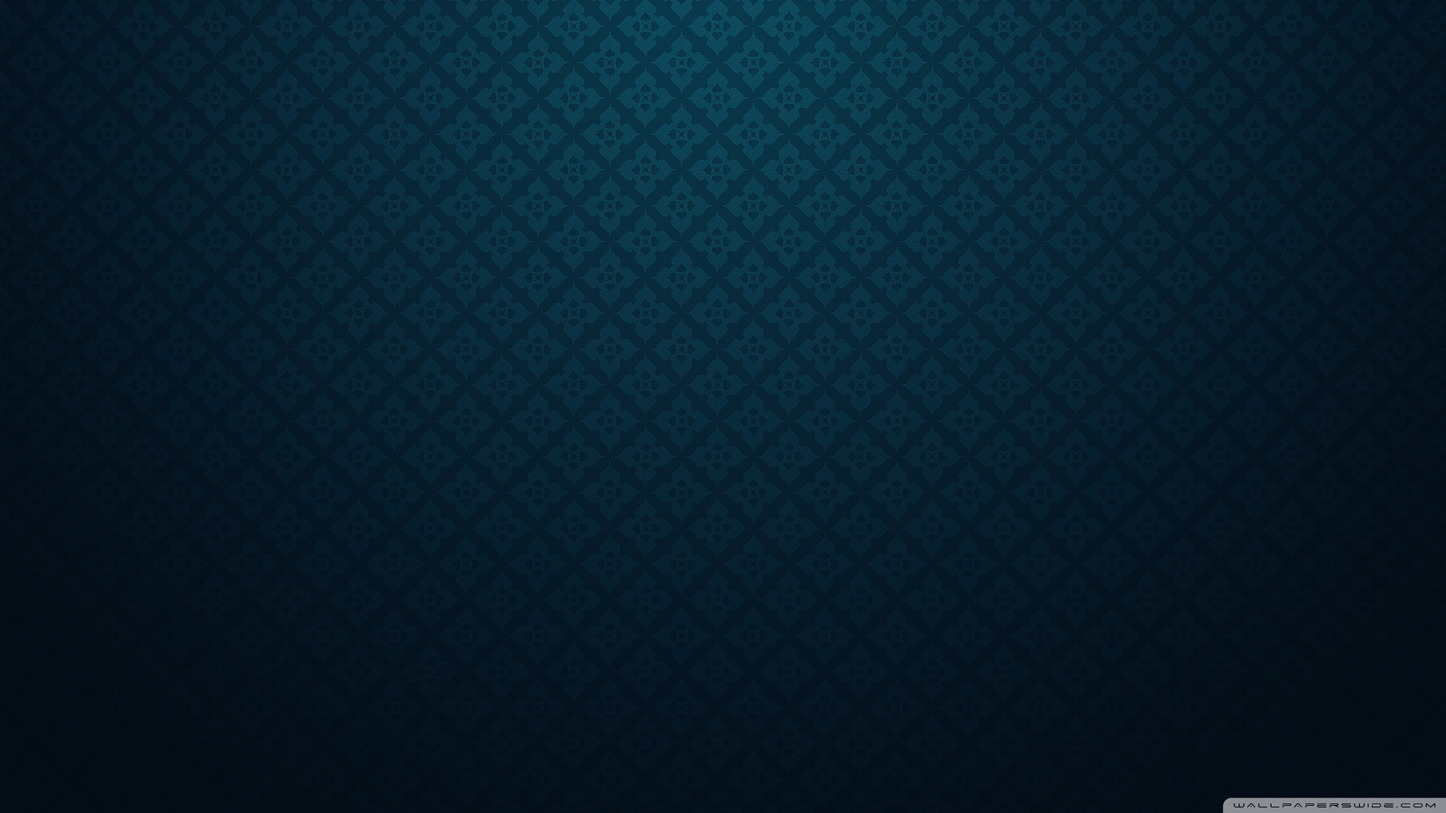
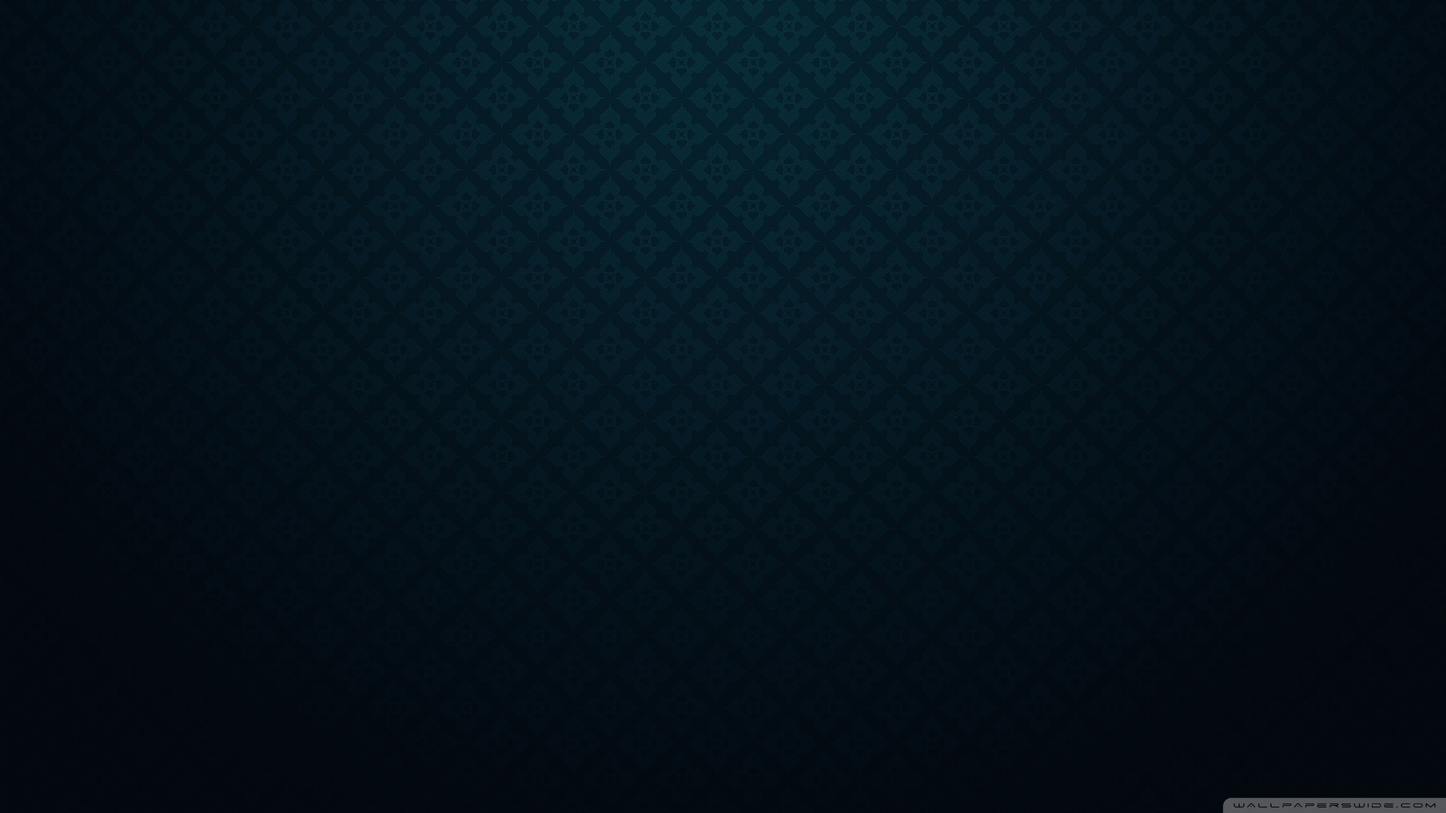
throw away of unneeded data

Changed region(s): [[0.1875, 0.0, 0.8125, 0.5625], [0.8438, 0.9688, 1.0, 1.0]]

diff --git a/css/style.css b/css/style.css
@@ -1,5 +1,5 @@
 body, html{
-  background-image: url("../images/wallpaper2.jpg");
+  background-image: url("../images/wallpaper.jpg");
   height: 100%;
   background-attachment: fixed;
 }
@@ -9,8 +9,7 @@ body {
 .title {
     text-align: center;
     font-size: 40pt;
-  }
-
+}
 body h1 {
   font-family: sans-serif;
   color:green;
